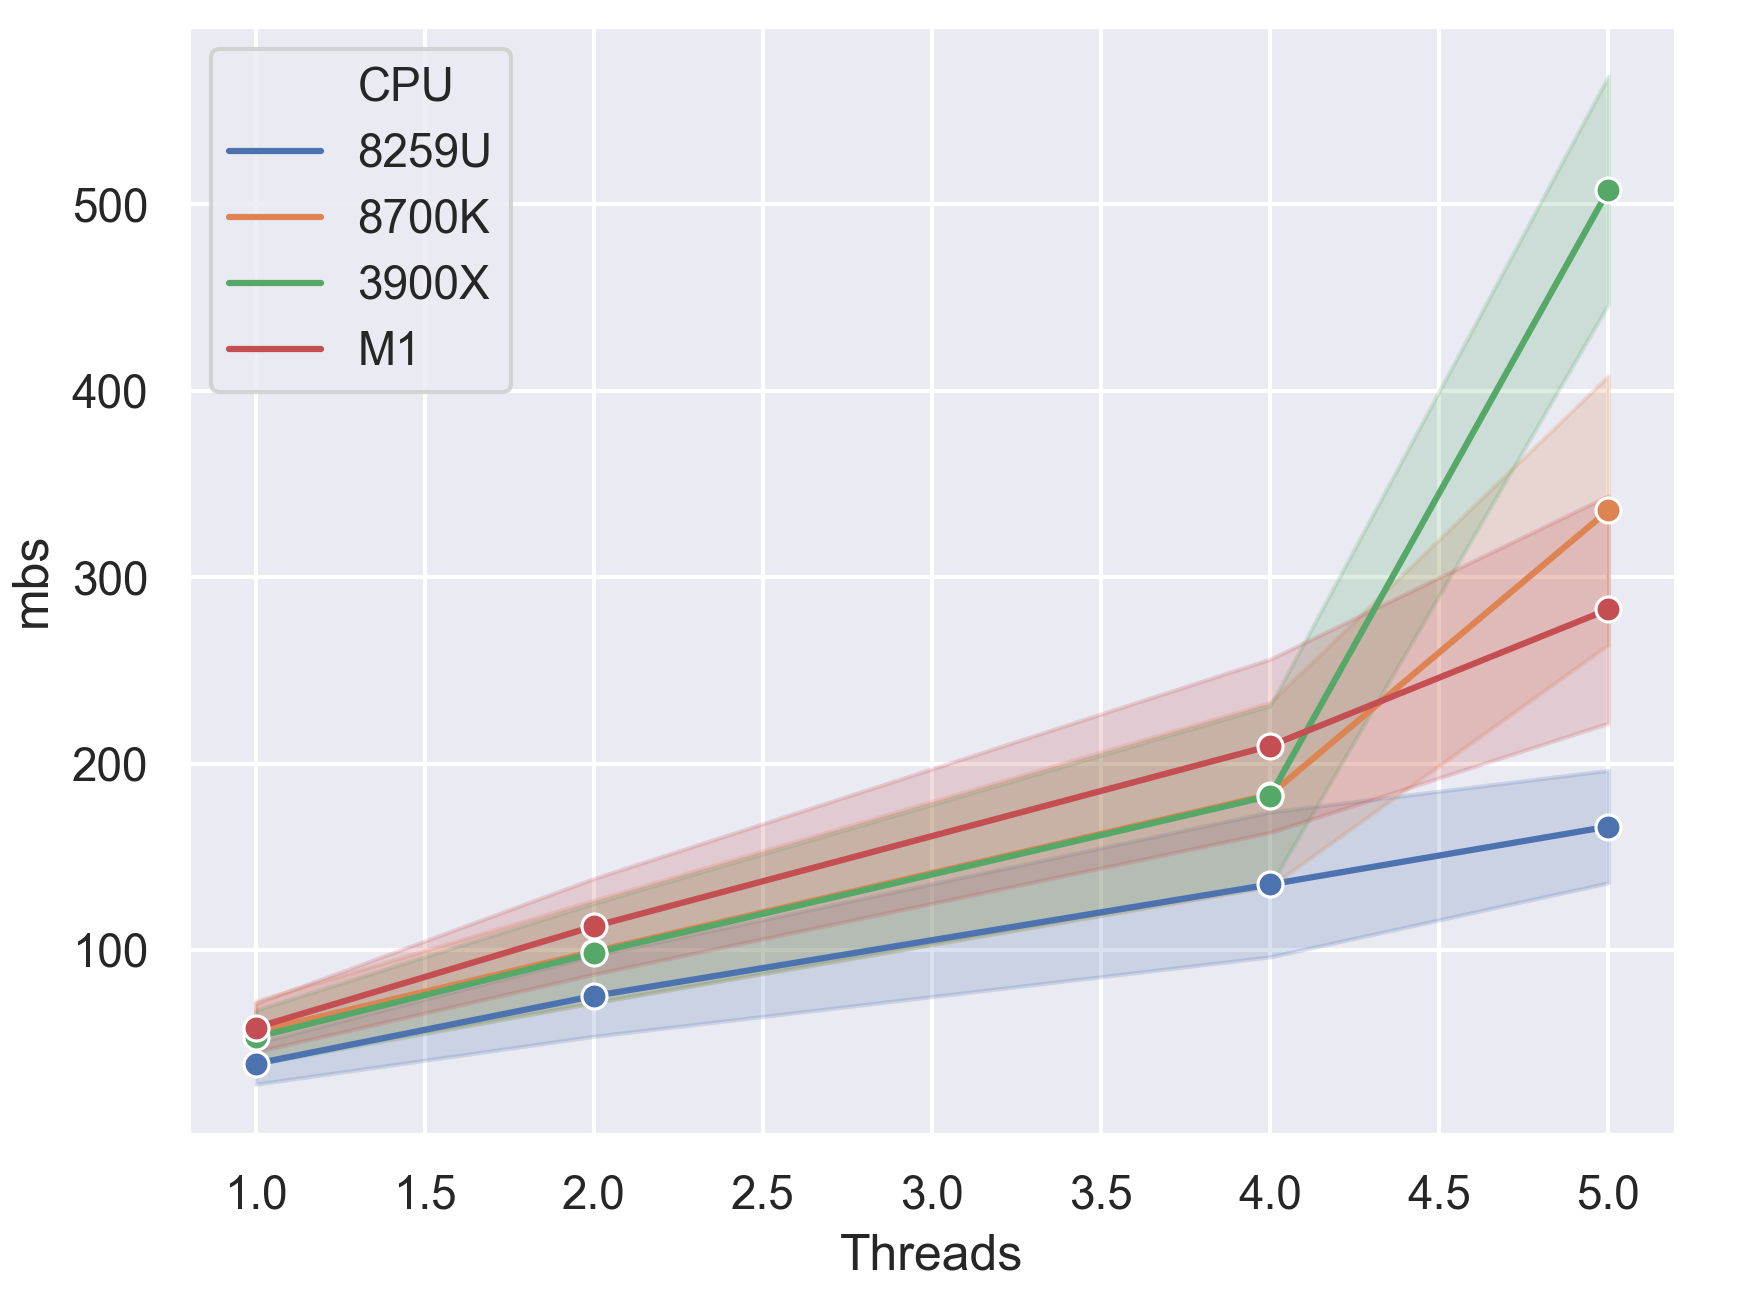
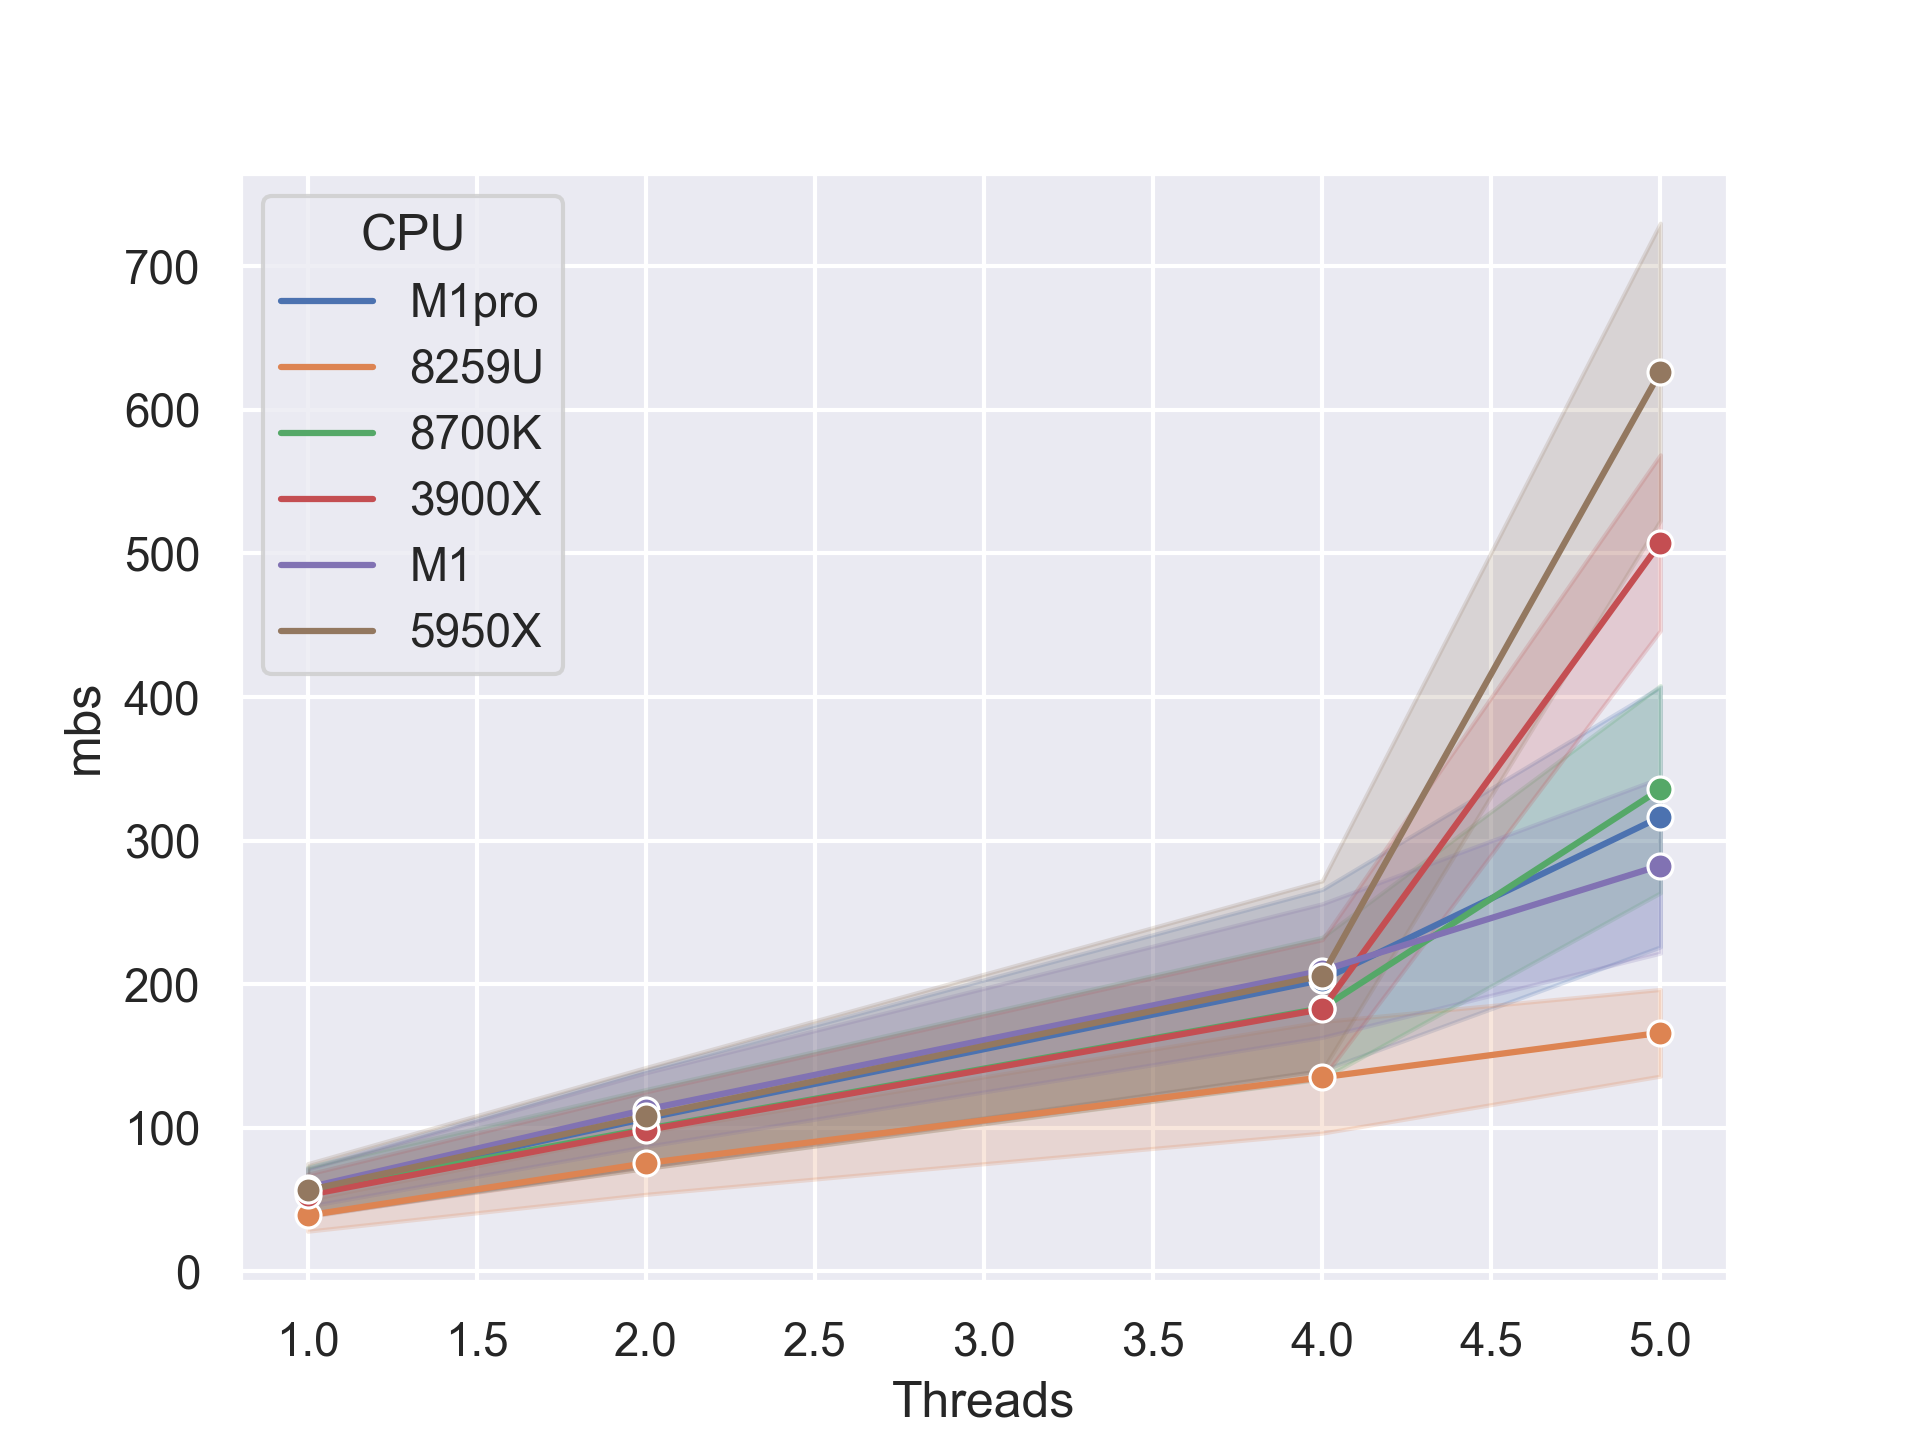
Update with data for M1 Pro and Ryzen 5950X

diff --git a/pigz_graph.py b/pigz_graph.py
@@ -1,19 +1,16 @@
 #!/usr/bin/env python3
 # -*- coding: utf-8 -*-
 
-#plot geometric mean for 
-# fslmaths 4drest  -Tmean -mul -1 -add 4drest temp
-# fslmaths 4drest  -bptf 77 8.68 temp
-# fslmaths 4drest -s 2.548 temp
-# fslmaths 3dt1  -kernel boxv 7 -dilM temp
+#plot for compression of Silesia corpus at compression level 6 (b_speed_threads.py) 
+# https://github.com/neurolabusc/pigz-bench-python
 
 import pandas as pd
 import seaborn as sns
 import matplotlib.pyplot as plt
-df = pd.DataFrame({'CPU': ['8259U','8259U','8259U','8259U','8259U','8259U','8259U','8259U','8700K','8700K','8700K','8700K','8700K','8700K','8700K','8700K','3900X','3900X','3900X','3900X','3900X','3900X','3900X','3900X','M1','M1','M1','M1','M1','M1','M1','M1'],
-					'Mode': ['pigzCF','pigzCF','pigzCF','pigzCF','pigzSys','pigzSys','pigzSys','pigzSys','pigzCF','pigzCF','pigzCF','pigzCF','pigzSys','pigzSys','pigzSys','pigzSys','pigzCF','pigzCF','pigzCF','pigzCF','pigzSys','pigzSys','pigzSys','pigzSys','pigzCF','pigzCF','pigzCF','pigzCF','pigzSys','pigzSys','pigzSys','pigzSys'],
-					'Threads': [1,2,4,5,1,2,4,5,1,2,4,5,1,2,4,5,1,2,4,5,1,2,4,5,1,2,4,5,1,2,4,5],
-					'mbs': [50,97,174,196.3333333,28,53.66666667,96.33333333,136,72.66666667,126.6666667,232.6666667,408,39.33333333,71.66666667,134,263.6666667,67.66666667,125,231,568.6666667,38.66666667,71.66666667,134.3333333,446.3333333,71.33333333,138.3333333,256,343.6666667,45.33333333,87,163,221.6666667]})
+df = pd.DataFrame({'CPU': ['M1pro','M1pro','M1pro','M1pro','M1pro','M1pro','M1pro','M1pro','8259U','8259U','8259U','8259U','8259U','8259U','8259U','8259U','8700K','8700K','8700K','8700K','8700K','8700K','8700K','8700K','3900X','3900X','3900X','3900X','3900X','3900X','3900X','3900X','M1','M1','M1','M1','M1','M1','M1','M1', '5950X','5950X','5950X','5950X','5950X','5950X','5950X','5950X'],
+					'Mode': ['pigzCF','pigzCF','pigzCF','pigzCF','pigzSys','pigzSys','pigzSys','pigzSys',   'pigzCF','pigzCF','pigzCF','pigzCF','pigzSys','pigzSys','pigzSys','pigzSys','pigzCF','pigzCF','pigzCF','pigzCF','pigzSys','pigzSys','pigzSys','pigzSys','pigzCF','pigzCF','pigzCF','pigzCF','pigzSys','pigzSys','pigzSys','pigzSys','pigzCF','pigzCF','pigzCF','pigzCF','pigzSys','pigzSys','pigzSys','pigzSys','pigzCF','pigzCF','pigzCF','pigzCF','pigzSys','pigzSys','pigzSys','pigzSys'],
+					'Threads': [1,2,4,5,1,2,4,5,    1,2,4,5,1,2,4,5,1,2,4,5,1,2,4,5,1,2,4,5,1,2,4,5,1,2,4,5,1,2,4,5,1,2,4,5,1,2,4,5],
+					'mbs': [72,140,266,407,39,73,140,226,   50,97,174,196.3333333,28,53.66666667,96.33333333,136,72.66666667,126.6666667,232.6666667,408,39.33333333,71.66666667,134,263.6666667,67.66666667,125,231,568.6666667,38.66666667,71.66666667,134.3333333,446.3333333,71.33333333,138.3333333,256,343.6666667,45.33333333,87,163,221.6666667, 75, 142, 272, 730, 38, 74, 140, 523]})
 
 sns.set()
 ax = sns.lineplot(x='Threads', y='mbs', hue='CPU', data=df, marker='o')

diff --git a/afni_bench_py.py b/afni_bench_py.py
@@ -11,10 +11,9 @@ import pandas as pd
 import numpy as np
 import seaborn as sns
 import matplotlib.pyplot as plt
-df = pd.DataFrame({'CPU': ['8259U','8259U','8259U','8259U','8259U','8259U','3900X','3900X','3900X','3900X','3900X','3900X','M1','M1','M1','M1','M1','M1'],
-					'Threads': [1,2,4,8,12,24,1,2,4,8,12,24,1,2,4,8,12,24],
-					'Time': [124,80,67,60,np.nan,np.nan, 101,74,71,53,45,36, 67,57,48,47,np.nan,np.nan]})
-
+df = pd.DataFrame({'CPU': ['8259U','8259U','8259U','8259U','8259U','8259U','3900X','3900X','3900X','3900X','3900X','3900X','M1','M1','M1','M1','M1','M1','5950X','5950X','5950X','5950X','5950X','5950X'],
+					'Threads': [1,2,4,8,12,24,1,2,4,8,12,24,1,2,4,8,12,24,1,2,4,8,12,24],
+					'Time': [124,80,67,60,np.nan,np.nan, 101,74,71,53,45,36, 67,57,48,47,np.nan,np.nan,71, 50, 40, 33, 32, 30]})
 sns.set()
 ax = sns.lineplot(x='Threads', y='Time', hue='CPU', data=df, marker='o')
 #plt.show()

diff --git a/README.md b/README.md
@@ -119,7 +119,7 @@ The graph shows the geometric mean for the benchmarks with lower values indicati
 
 The GZip compression format is a staple of neuroimaging, with NIfTI images often stored in GZip format. The compression is slow (relative to decompression), but the pigz tool can use multiple threads to accelerate compression. Indeed, popular tools like AFNI and dcm2niix can use pigz. A previous review of the Apple M1 CPU examined [pigz](https://arstechnica.com/gadgets/2020/11/hands-on-with-the-apple-m1-a-seriously-fast-x86-competitor/), however that review only examined the conventional version. Here we compare both conventional pigz with an accelerated version using the [CloudFlare zlib](https://github.com/cloudflare/zlib) which leverages dedicated hardware in both Intel and ARM computers. Here we tested compression of the [Silesia compression corpus](http://sun.aei.polsl.pl/~sdeor/index.php?page=silesia) using a simple [script](https://github.com/neurolabusc/pigz-bench-python).
 
-The graph shows compression performance as megabytes per second, with higher values indicating faster performance. The horizontal axes shows the number of threads, with actual values for 1..4 and 5 representing the use of all available threads (e.g. 8 threads for the M1 but 24 for the 3900X). The shaded color for each line illustrates the performance difference between the standard pigz (bottom of shaded region) and the CloudFlare pigz (top of shaded region).
+The graph shows compression performance as megabytes per second, with higher values indicating faster performance. The horizontal axes shows the number of threads, with actual values for 1..4 and 5 representing the use of all available threads (e.g. 8 threads for the M1 but 24 for the 3900X). The shaded color for each line illustrates the performance difference between the standard pigz (bottom of shaded region) and the CloudFlare pigz (top of shaded region). The `M1pro` entry refers to the base model M1 Pro CPU (with 6 performance cores and 2 efficiency cores).
 
 ![pigz](pigz.png)
 
@@ -130,9 +130,13 @@ The graph shows compression performance as megabytes per second, with higher val
 ```
 Rank   System/CPU                  (msec)  Threads   Tester       Compiler                 System/OS/Compile Line Reference/etc.
 
+Ryzen 5950X 16-core  3.4-4.9GHz      1376     120     cr           gcc 11.2                 Ubuntu 21.11. Default make settings
 Ryzen 3900X 12-core  3.8-4.6GHz      1908     120     cr           gcc 9.3                  Ubuntu 20.04. Default make settings
+Apple M1 8-core (6 big) 3.2GHz       3487      64     cr           clang version 13.0.0     macOS 12.0. Default make settings
 Apple M1 8-core (4 big) 3.2GHz       4588      64     cr           clang version 12.0.0     macOS 11.2. Default make settings
 Intel i5-8259u 4-core 2.3GHz        11827      64     cr           clang version 11.0.0     macOS 10.14. Default make settings
+Ryzen 5950X 16-core  3.4-4.9GHz     19605       1     cr           gcc 11.2                 Ubuntu 21.11. Default make settings
+Apple M1 8-core (6 big) 3.2GHz      21334       1     cr           clang version 13.0.0     macOS 12.0. Default make settings
 Apple M1 8-core (4 big) 3.2GHz      21816       1     cr           clang version 12.0.0     macOS 11.2. Default make settings
 Ryzen 3900X 12-core  3.8-4.6GHz     21981       1     cr           gcc 9.3                  Ubuntu 20.04. Default make settings
 Intel i5-8259u 4-core 2.3GHz        72753       1     cr           clang version 11.0.0     macOS 10.14. Default make settings
@@ -205,7 +209,7 @@ Here is the status of a few tools I have evaluated. This selection is necessaril
    - [MRIcron](https://github.com/neurolabusc/MRIcron/releases)
    - [Surfice](https://github.com/neurolabusc/surf-ice/releases)
  - Translated Applications Appear to Function
-   - [AFNI](https://afni.nimh.nih.gov) note [experimental native support](https://github.com/afni/afni/pull/233) 
+   - [AFNI](https://afni.nimh.nih.gov) note [experimental native support](https://github.com/afni/afni/pull/233)
    - [FSL](https://fsl.fmrib.ox.ac.uk/fsl/fslwiki/)
    - [Slicer](https://www.slicer.org)
    - [SPM12](https://www.fil.ion.ucl.ac.uk/spm/software/spm12/)
@@ -213,8 +217,14 @@ Here is the status of a few tools I have evaluated. This selection is necessaril
    - [Paraview](https://www.paraview.org) (solution: use version [prior to 5.6.1](https://discourse.paraview.org/t/paraview-on-new-macs-with-m1-chips/5909/9))
    - [MRtrix mrview geometry shaders](https://github.com/MRtrix3/mrtrix3/issues/2247)
    - [VTK and VTK-based tools](https://gitlab.kitware.com/vtk/vtk/-/issues/18158#note_925881) (though x86-64 tools work via Rosetta)
-   
- 
+
+## Late 2021 Update: M1 Pro and M1 Max
+
+In late 2021 Apple released the M1 Pro and M1 Max. These include 6-8 performance CPUs, 2 efficiency CPUs, and 14-32 GPU cores, more RAM bandwidth, faster disks, and allow for more RAM. Apple has also provided patches that [promise better NumPy performance](https://github.com/numpy/numpy/pull/20131). Similar to more extensive tests by [others](https://www.anandtech.com/show/17024/apple-m1-max-performance-review/5), the single-threaded performance is relatively unchanged, while multi-threaded operations can see a dramatic boost. These new computers seem targeted for Apple's core markets of photography, audio and video production. This page now includes details of from a base model M1 Pro (with 6 performance cores).
+
+Several core tools used in neuroimaging continue to run in translation, including FSL and Matlab 2021b. The GPU in the original M1 was already sufficient for visualization. The GPUs still do not support double precision calculations, and Apple does not support tools that aid in porting CUDA tools to Metal (e.g. AMDs GPUFORT). Therefore, neuroimaging tools can not harness the immense computational promise of the M1 Max GPU. If future hardware addresses these limitations, Apple Silicon would be well positioned for scientific applications.
+
+Several tests now also include data for the Ryzen AMD 5950X, which does show improved per-thread performance relative its predecessors.
 
 ## Links
 
@@ -229,4 +239,5 @@ The motivation for this page was to evaluate the M1 with the tools and datasets 
  - [Tuh Do](https://github.com/tuhdo/tuhdo.github.io/blob/c3b417ba2fc81768f656dadf87bf3dd28ba47182/emacs-tutor/zen3_vs_m1.org) evaluates the M1, Ryzen 3900X and more latest 5800X CPUs.
  - [Dario Radeč](https://towardsdatascience.com/are-the-new-m1-macbooks-any-good-for-data-science-lets-find-out-e61a01e8cad1) compares Intel and M1 MacBooks.
  - Dimitrios Kechagias describes [Perl performance on the M1](http://blogs.perl.org/users/dimitrios_kechagias/2021/04/perl-performance-on-apple-m1.html)
+ - [Will Usher](https://www.willusher.io/graphics/2020/12/20/rt-dive-m1) explores ray tracing performance on the M1.
  - [Yining Karl Li](https://github.com/betajippity) provides notes and benchmarks for adapting his Takua Renderer to the M1, see [part 1](https://blog.yiningkarlli.com/2021/05/porting-takua-to-arm-pt1.html) and [part2](https://blog.yiningkarlli.com/2021/07/porting-takua-to-arm-pt2.html)
